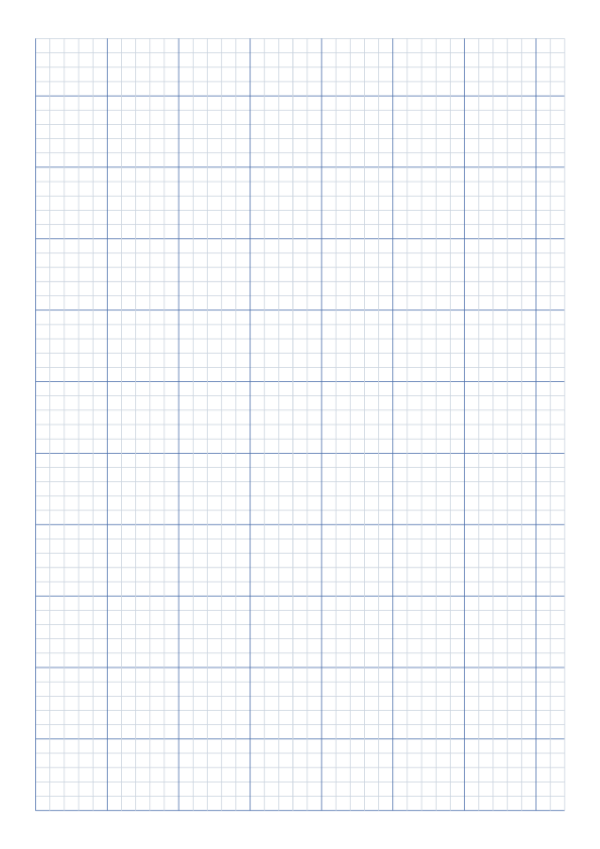
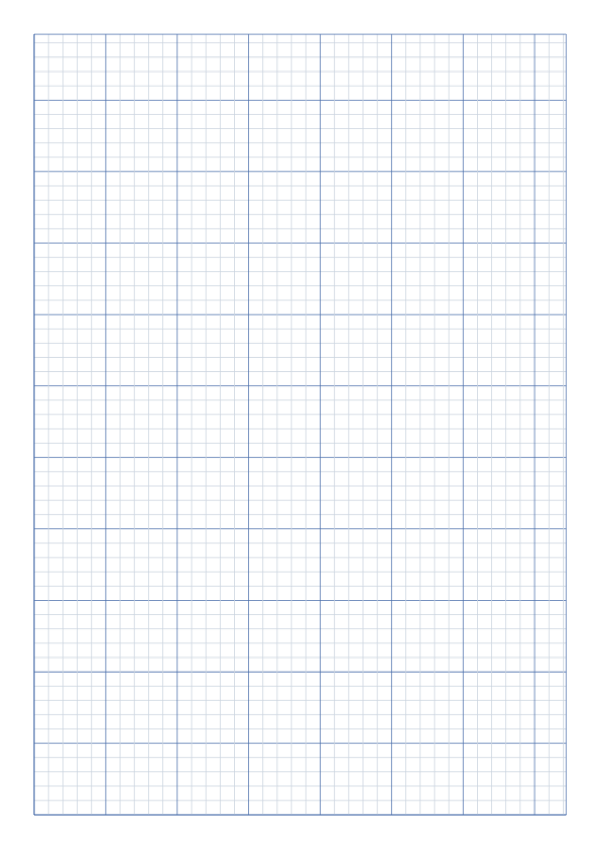
examples: frame the squared paper, fill the staves page, add a cover example
Three fixes from a first look at the gallery:

- 01-lines-squared: the accent-first cycle bolded the left and bottom origin
  lines, but the top and right, where the 3 mm remainder falls, were left thin
  and inset — the "shifted" top row. A border now frames the pattern area on all
  four edges, and `remainder: end` anchors the grid at the origin so its majors
  meet the frame; the leftover sits at the far edge, under the border. Clean
  bold graph paper.
- 04-staves-treble: ten systems filled only the top 165 mm of the 265 mm page,
  leaving a third empty. Fifteen systems at a 6.5 sp gap fill it top to bottom
  (264 mm), the way manuscript paper does.
- New 11-cover-calibration: the calibration cover sheet (--cover) as its own
  gallery entry, so the new stroke-weight ladder is on show next to the 50 mm
  square and 100 mm rule. The preview is the cover; the grid it precedes is the
  second page. The example test now covers eleven files.

Changed region(s): [[0.03, 0.0306, 0.96, 0.98]]

diff --git a/examples/README.md b/examples/README.md
@@ -1,9 +1,9 @@
 # Examples
 
 A taste of what Ctrl+Grid makes — one A4 example per generator, plus a
-multi-page document. Each is an ordinary definition file: open the `.yaml`,
-change it, regenerate. The `.pdf` is the real output (measured, to scale); the
-image is just a preview.
+multi-page document and the calibration cover sheet. Each is an ordinary
+definition file: open the `.yaml`, change it, regenerate. The `.pdf` is the real
+output (measured, to scale); the image is just a preview.
 
 Try one without installing anything:
 
@@ -19,7 +19,7 @@ proportionally.
 
 | Preview | What it is |
 |---|---|
-| <img src="previews/01-lines-squared.png" width="220"> | **`lines`** — 5 mm squared paper, every fifth line accented.<br>[`01-lines-squared.yaml`](01-lines-squared.yaml) · [PDF](01-lines-squared.pdf) |
+| <img src="previews/01-lines-squared.png" width="220"> | **`lines`** — 5 mm squared paper inside a bold frame, every fifth line accented.<br>[`01-lines-squared.yaml`](01-lines-squared.yaml) · [PDF](01-lines-squared.pdf) |
 | <img src="previews/02-dots-grid.png" width="220"> | **`dots`** — a 5 mm dot grid, every fifth dot larger and darker.<br>[`02-dots-grid.yaml`](02-dots-grid.yaml) · [PDF](02-dots-grid.pdf) |
 | <img src="previews/03-grid-battleship.png" width="220"> | **`grid`** — a 12 × 12 labelled board (A…, 1…) with a checker fill.<br>[`03-grid-battleship.yaml`](03-grid-battleship.yaml) · [PDF](03-grid-battleship.pdf) |
 | <img src="previews/04-staves-treble.png" width="220"> | **`staves`** — treble-clef manuscript paper; the clef is a glyph from the bundled music font.<br>[`04-staves-treble.yaml`](04-staves-treble.yaml) · [PDF](04-staves-treble.pdf) |
@@ -29,6 +29,7 @@ proportionally.
 | <img src="previews/08-form-weekly.png" width="220"> | **`form`** — a weekly planner: seven day rows with a done-box, then a notes block.<br>[`08-form-weekly.yaml`](08-form-weekly.yaml) · [PDF](08-form-weekly.pdf) |
 | <img src="previews/09-perspective-2pt.png" width="220"> | **`perspective`** — a two-point drawing grid: a horizon, two vanishing points off the sheet, and true verticals.<br>[`09-perspective-2pt.yaml`](09-perspective-2pt.yaml) · [PDF](09-perspective-2pt.pdf) |
 | <img src="previews/10-mandala.png" width="220"> | **`mandala`** — a twelve-fold template: guide rings and spokes, a flower-of-life rosette, an outer polygon and a woven {12/5} star.<br>[`10-mandala.yaml`](10-mandala.yaml) · [PDF](10-mandala.pdf) |
+| <img src="previews/11-cover-calibration.png" width="220"> | **`--cover`** — the calibration cover sheet (§ 8.8): a 50 mm square and 100 mm rule to catch a scaling print driver, a ladder of stroke weights so you see how each one prints, and a settings summary. The preview is the cover; the grid it precedes is page two.<br>[`11-cover-calibration.yaml`](11-cover-calibration.yaml) · [PDF](11-cover-calibration.pdf) |
 
 The maze booklet uses a fixed seed for a reproducible set — regenerate it with:
 
